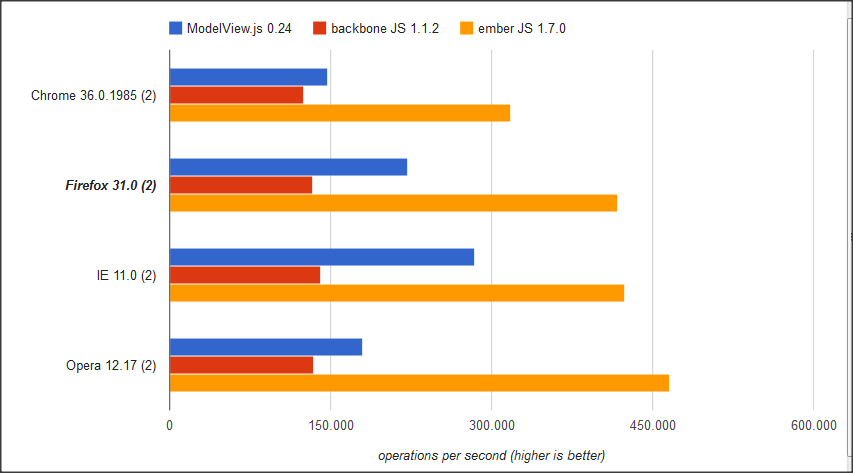
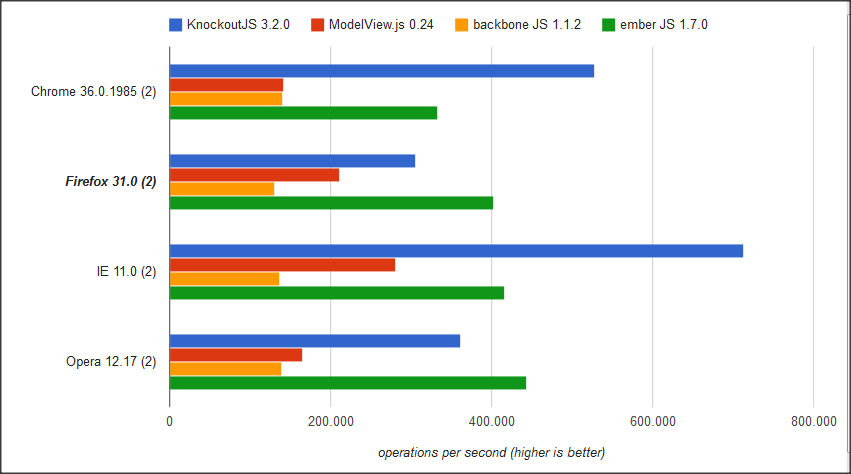
new perf tests

diff --git a/README.md b/README.md
@@ -1,7 +1,7 @@
 modelview.js
 ============
 
-A simple / extendable / light-weight (~26 kB minified) mv* (MVVM) framework based on jQuery
+A simple / extendable / light-weight (~26 kB minified, ~9kB zipped) mv* (MVVM) framework based on jQuery
 
 
 **Version 0.24**
@@ -172,8 +172,8 @@ Also focus is on enabling dynamic templates (in an engine-agnostic way) directly
 
 ####Performance
 
-Some tests with ModelView 0.24, latest backboneJS and emberJS (on models get/set) on [jsperf here](http://jsperf.com/js-mvc-frameworks/11).
+Some tests with ModelView 0.24, latest backboneJS, knockoutjs and emberJS (on models get/set) on [jsperf here](http://jsperf.com/js-mvc-frameworks/11).
 
-ModelView is (consistently) 2nd place (note Ember and Backbone do not support get/set on nested keys by default)
+(note Ember and Backbone do not support get/set on nested keys by default)
 
 ![jsperf-model-getset](/screenshots/jsperf-model-getset.png)
